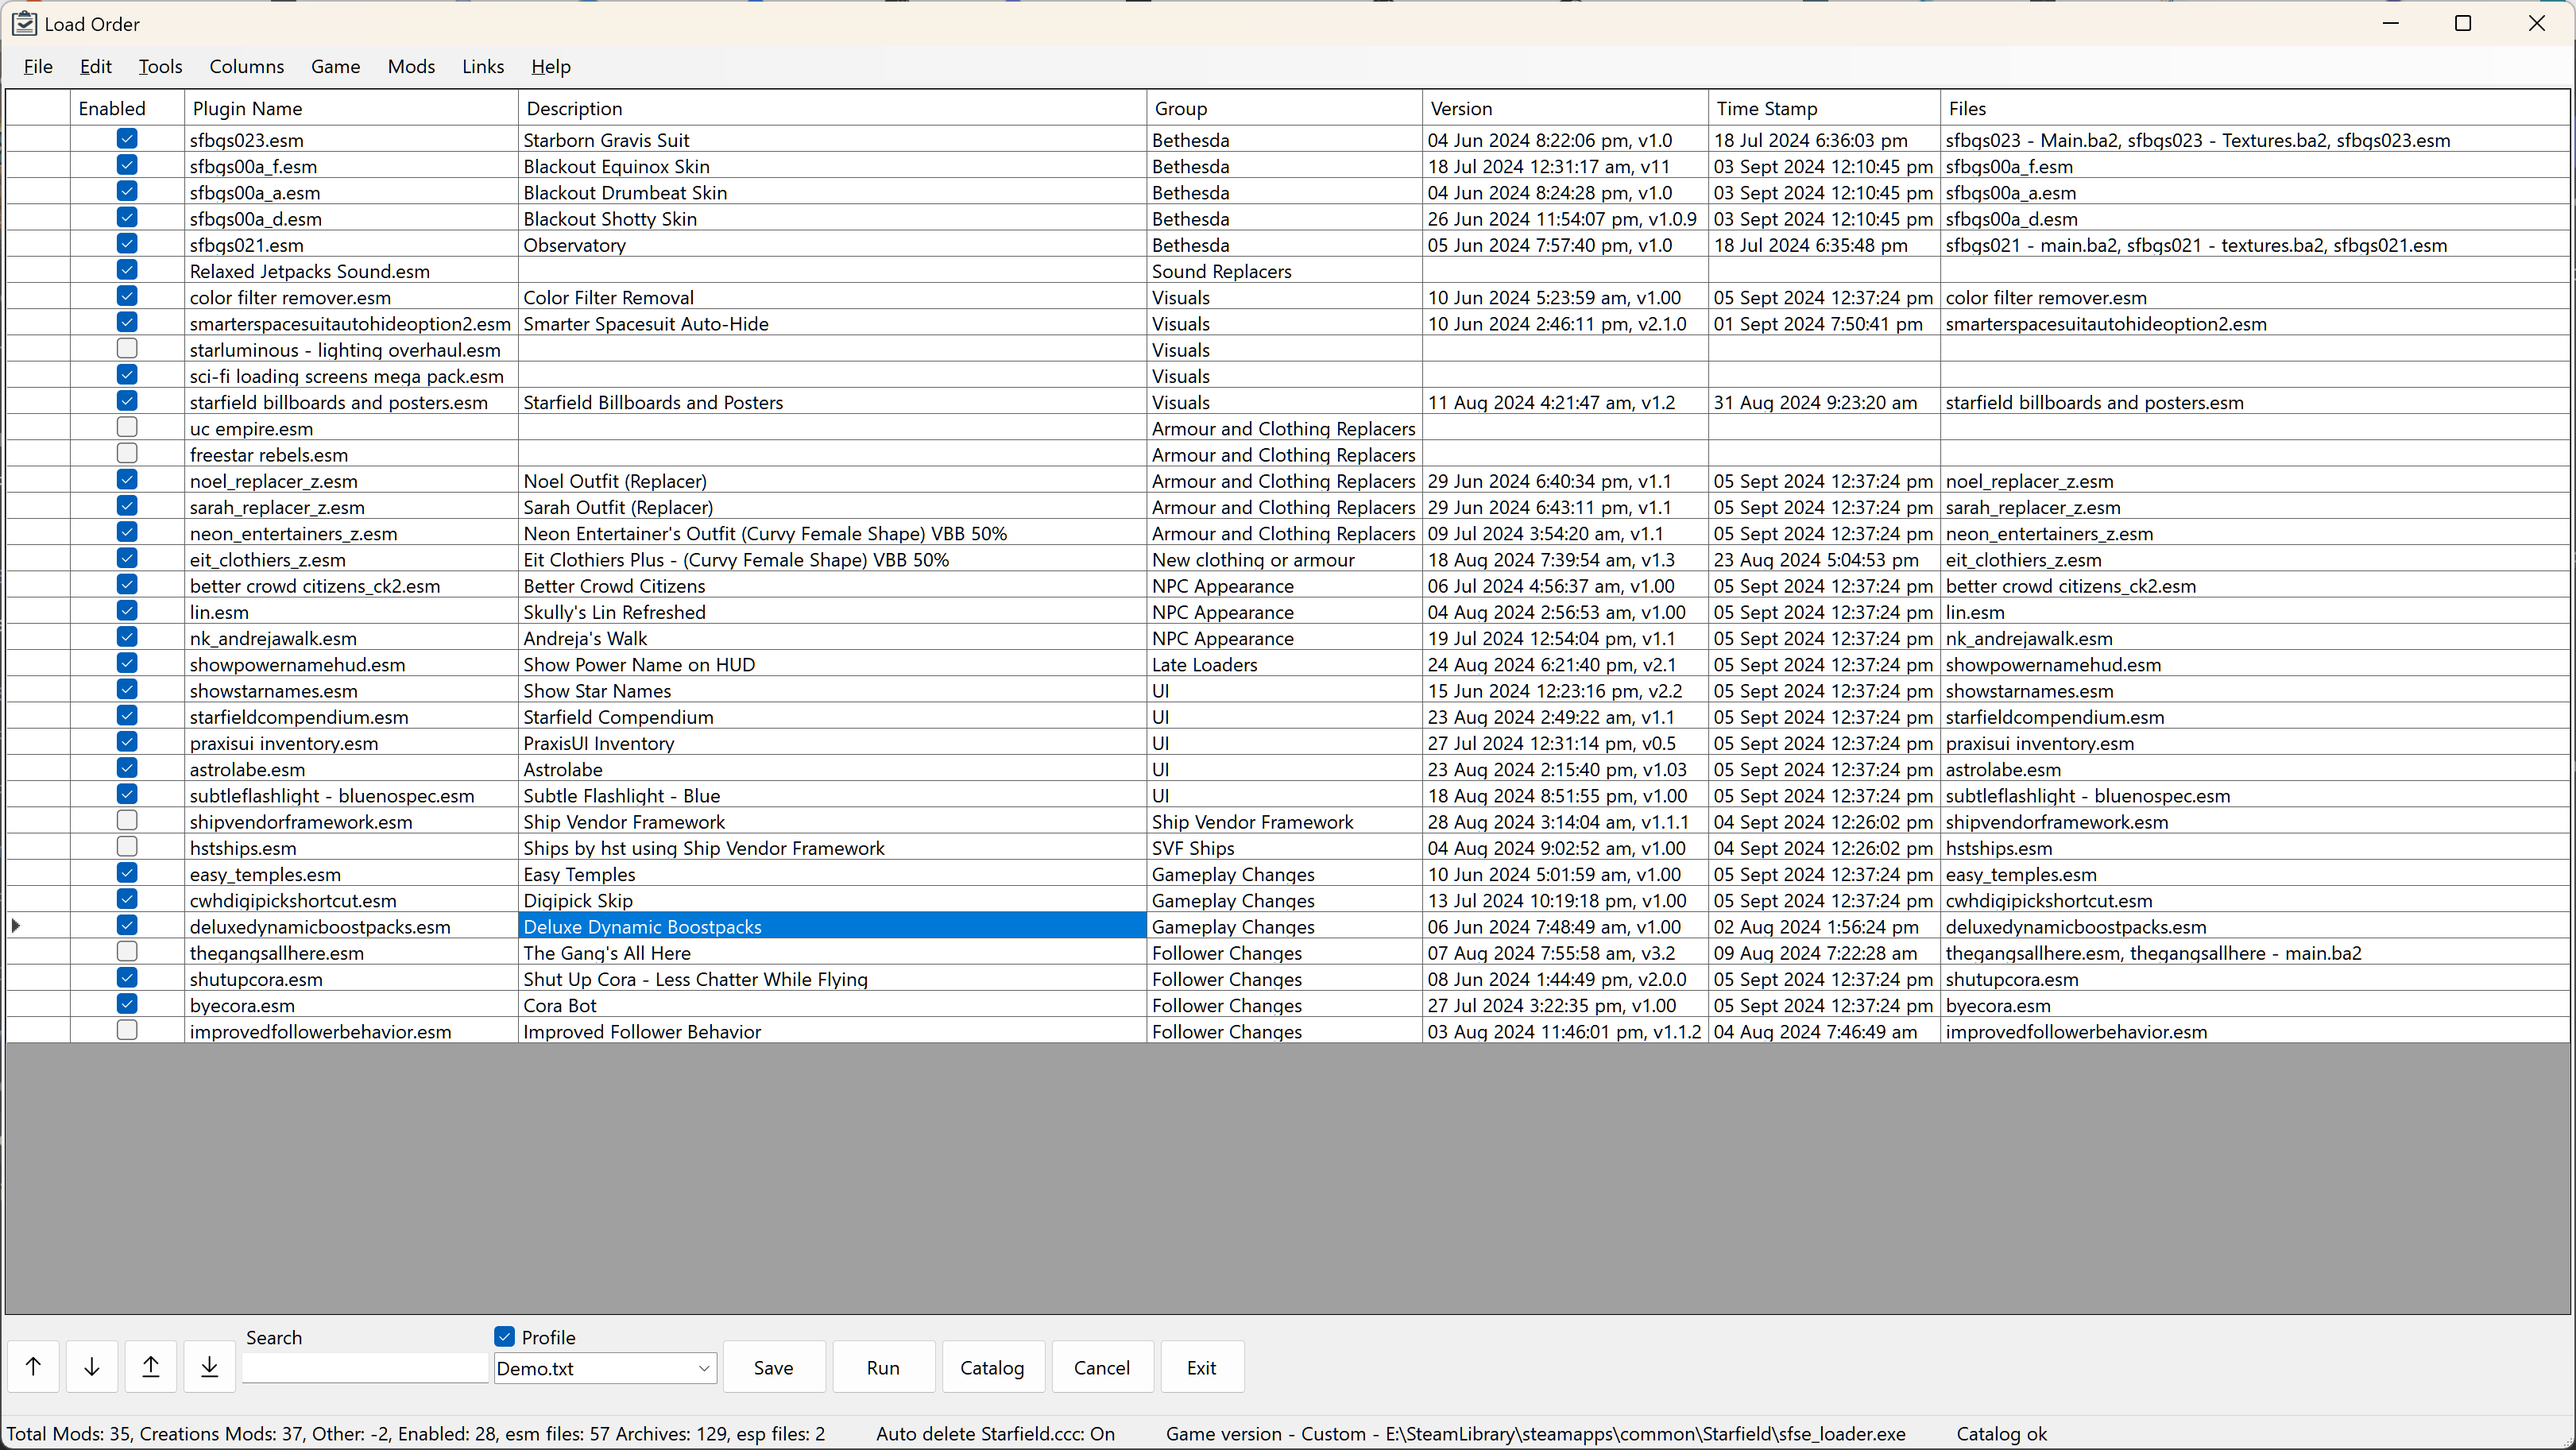
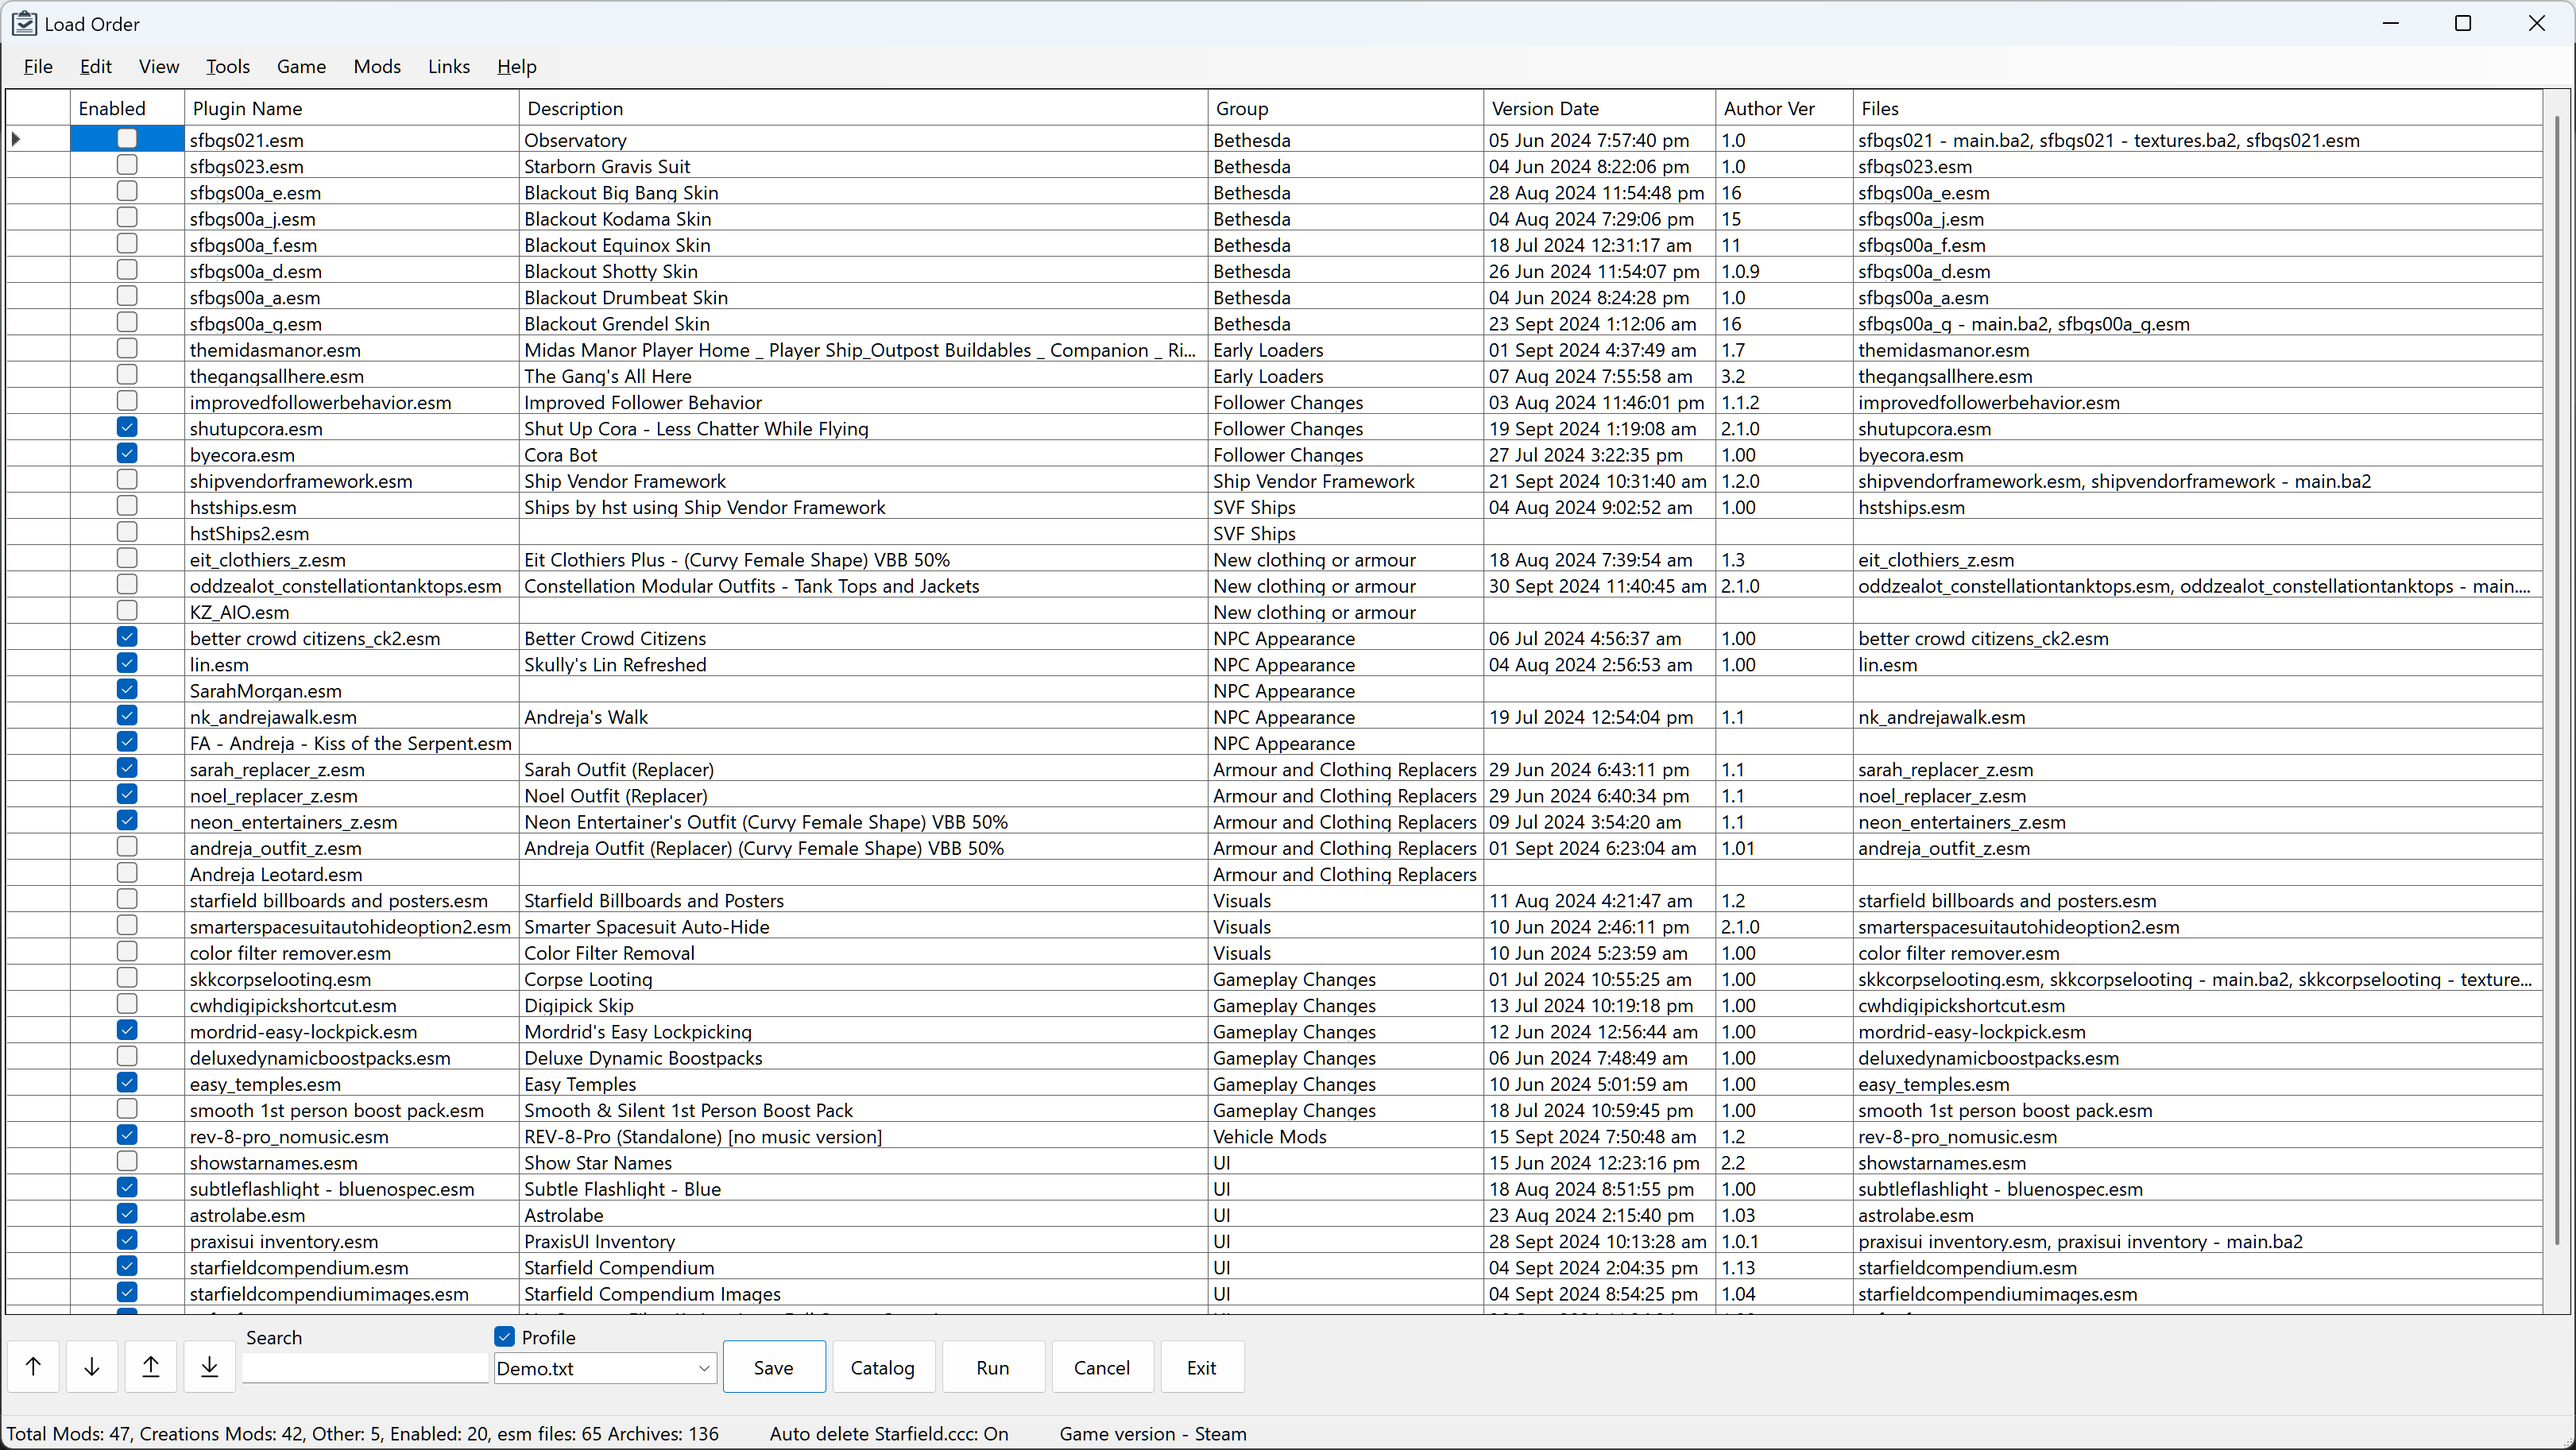
Preliminary update for Shattered Space

diff --git a/README.md b/README.md
@@ -1,5 +1,7 @@
 This tool checks ContentCatalog.txt file automatically when launched and provides a basic load order editor
 
+This version is compatible with the Shattered Space expansion.
+
 It seems like the Starfield vehicle update has fixed the Contentcatalog.txt bug, at least on my side so far.
 
 The mod manager section of the tool will continue to be updated and will move to a stand-alone tool later.
